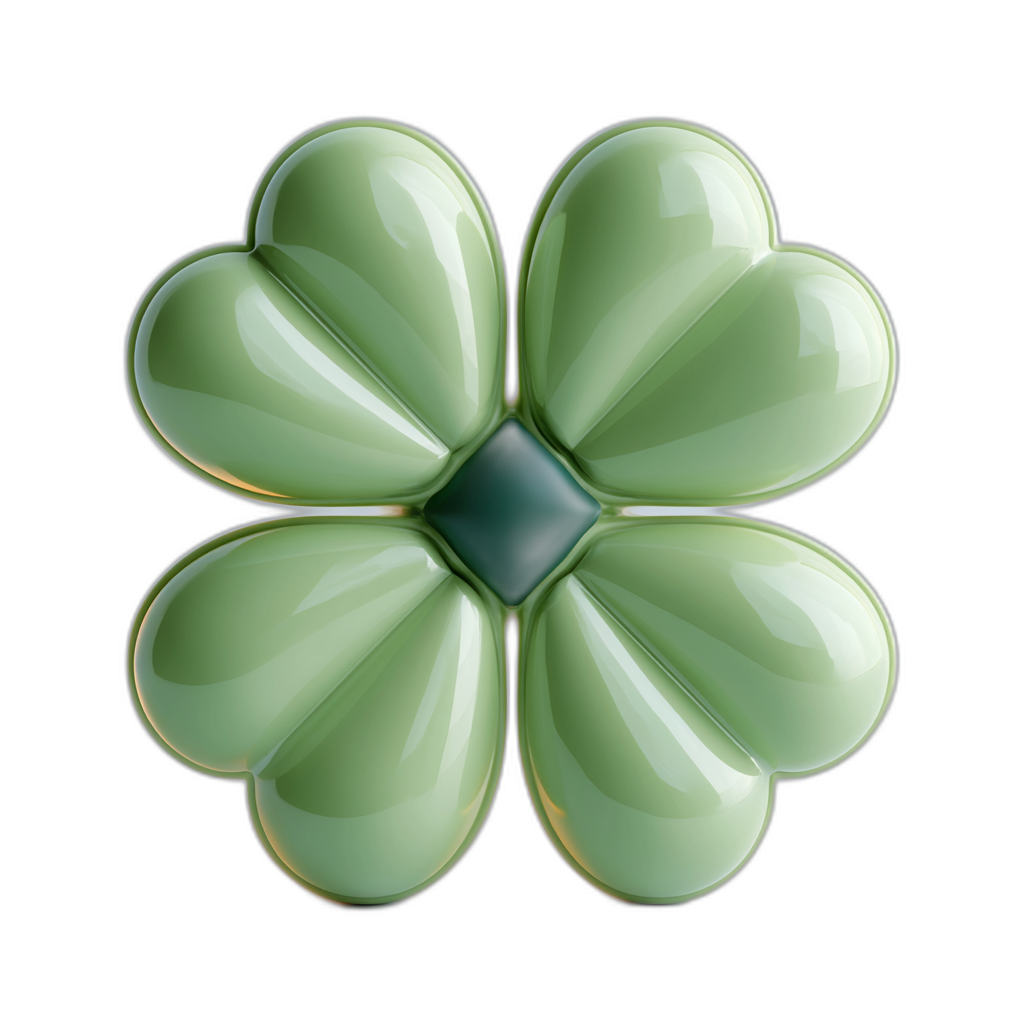
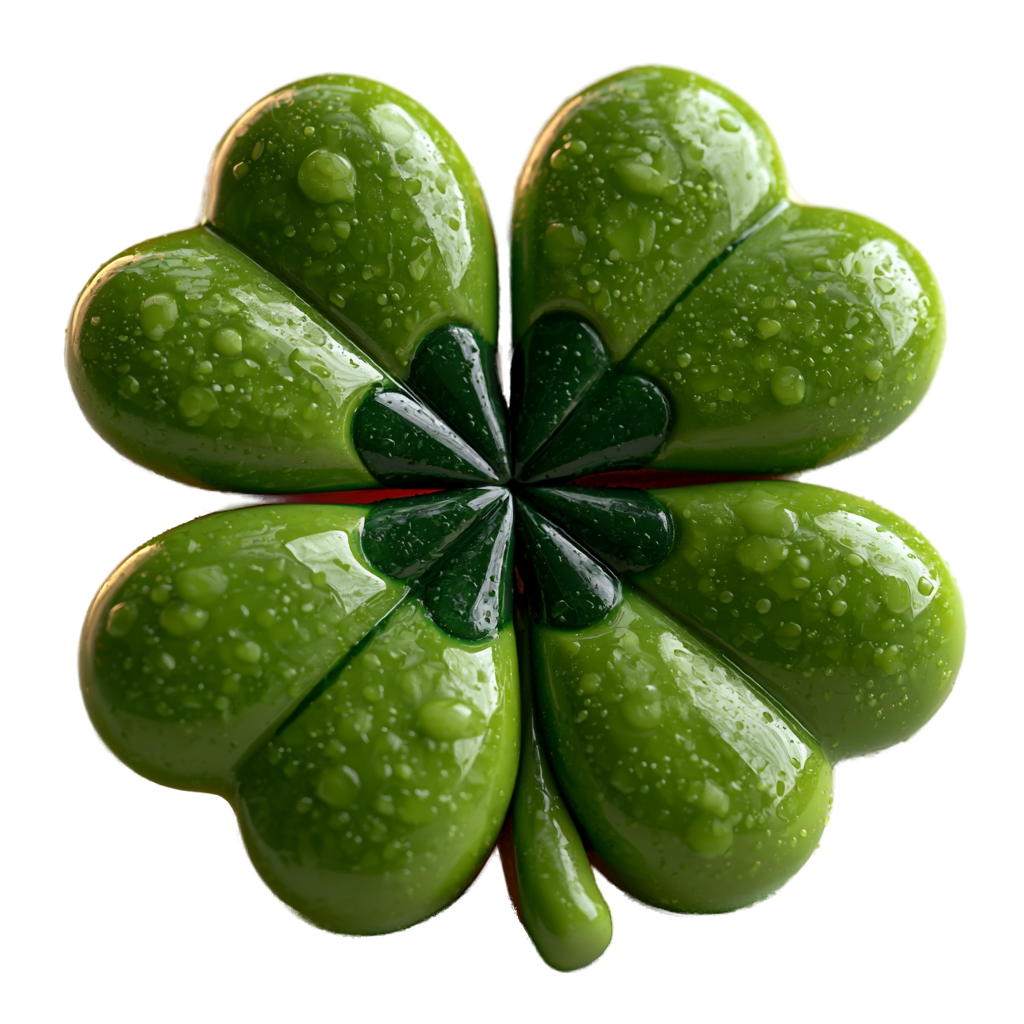
Asset Bible v1.1 — board-context re-bake of T02 + T03 + T05
Patch on v1 bible: 3 of the 6 v1 HD tiles failed the 5m squint test
when integrated into the actual Unity board (after the SpriteRenderer
PPU fix landed in the Unity repo). v1 quality registry accepted color
and concept drift judged on MJ's white canvas — that masked in-game
contrast issues against the dark forest green board.

Bible patch (asset-bible-v1.1-tile-rebake.md) adds:
- New common rules block enforced on every re-bake prompt: "single
  dominant brand color readable at 80px thumbnail against dark forest
  green background, sticker-style game tile NOT still-life, NO ground
  surface beneath, NO ambient floor color bleeding"
- Revised prompts for T02 / T03 / T05 with tightened color/concept
  enforcement + per-tile drift-mode negation libraries
- New mandatory quality gate §4: every variation must pass the dark
  green board contrast test (downscale 80px → place on #1a3a24 →
  squint at 5m → confirm distinguishable from other 5 tiles)
- Generation order + iteration budget per tile (max 3 prompt revisions
  before escalating to sref-drop fallback)
- Updated Quality Registry row template — v1 rows stay (registry is
  append-only per v1 §6)

Re-baked PNGs (1024 sq, alpha via rembg isnet-general-use):
- T02 Yonca: pale mint → forest green (saturation restored)
- T03 Meşe: nut-on-peach compound → ONE acorn (concept fix)
- T05 Böğürtlen: magenta uniform → violet+cool-calyx cluster

These ride the existing live-ops bundle pipeline + serve as binary
[…]

diff --git a/asset-bible-v1.1-tile-rebake.md b/asset-bible-v1.1-tile-rebake.md
@@ -1,0 +1,151 @@
+# Foxglen Asset Bible — v1.1 Tile Re-bake
+
+**Patch date:** 2026-05-02
+**Scope:** T02, T03, T04, T05 re-bake. T01 + T06 + S01-S04 + P01-P03 + I01-I03 unchanged.
+**Trigger:** First-time integration in Unity board (PPU sizing fixed) revealed 4 tiles fail squint test on a real dark forest-green board background. v1 Quality Registry accepted color/concept drift that didn't survive in-game contrast.
+
+> Anchor sref kept the same: `https://cdn.midjourney.com/794e758d-e852-40df-b732-3f72beafbc62/0_2.png` (T01 mushroom). All re-bakes still inherit T01's lighting/material via `--sref` + `--sw 50` so the family stays internally consistent.
+
+---
+
+## 1. What broke (squint test on dark green board)
+
+| ID | Spec | What v1 shipped | Failure mode |
+|---|---|---|---|
+| **T02 Yonca** | `#6ab04c` saturated forest green | pale mint green, washed out | desaturation drift — sref red bleed neutralized green chroma |
+| **T03 Meşe** | yellow oval body `#f4b000` + brown beret cap | brown acorn nut sitting on an orange peach/persimmon body | concept break — V8.1 invented a 2-piece "nut-on-fruit" composite |
+| **T04 Çiy** | cyan/turquoise `#3ec1d3` | deep navy / cobalt blue | hue shift — color went from #3ec1d3 turquoise to ~#1a3a78 cobalt; lost the "fresh water" brand cue |
+| **T05 Böğürtlen** | violet `#8b5cf6` (mid-purple, blue undertone) | magenta / pink-purple | hue shift — drifted toward warm purple; visually collides with T01 mushroom (red) and T06 bloom (pink) |
+
+**Cross-tile readability cost:** in the shipped board, mushroom + berry + bloom all read as "warm reddish round thing" at 5m squint. v1.1 must restore color separation so a player can distinguish all 6 tile kinds in <0.3s.
+
+---
+
+## 2. New common rules (apply to all 4 re-bakes)
+
+These are layered ON TOP of the v1 master spine (§2.1 in v1 bible). Add verbatim to every re-bake prompt:
+
+```
+single dominant brand color readable at 80 pixel thumbnail size against dark forest green background, sticker-style game tile NOT still-life NOT diorama NOT product photograph, isolated subject with NO ground surface beneath, NO cast shadow on a surface, NO environmental reflection, NO ambient floor color bleeding onto the object
+```
+
+**Why each clause:**
+- "single dominant brand color readable at 80px thumbnail" — Royal Match / Toon Blast convention. v1 gave V8.1 too much room to introduce secondary colors that erode silhouette.
+- "sticker-style NOT still-life NOT diorama" — v1 prompts said "Royal Match style 3D rendered plastic plush" but V8.1 still produced micro-photos with environmental lighting. "Sticker" is the magic word that kills baked environment.
+- "NO ground surface / NO cast shadow on a surface / NO ambient floor color bleeding" — kills the "tile sitting on grass/sand" effect that made the v1 board look like 6 different photoshoots stitched together.
+
+**Where to put it:** insert after `glossy fruit surface,` (or whatever subject-trailing phrase) and BEFORE `mobile match-3 puzzle game asset,` in every prompt below. Do NOT delete the v1 master spine — these rules supplement it.
+
+---
+
+## 3. Re-bake prompts (4 tiles)
+
+> **Generation order:** T02 → T03 → T04 → T05 (alphabetical, no internal sref dependencies — each anchors back to T01 only).
+> **Iteration budget:** 6 variations per tile, max 3 prompt revisions per tile. If round 3 fails, escalate to dropping `--sref` entirely and re-anchoring just on hex color enforcement.
+> **Settings panel:** confirm V8.1 Standard + Raw + Stylize 250 + Personalization OFF before each batch.
+
+### 3.1 T02 — Yonca (Clover) RE-BAKE
+
+```
+cute four-leaf clover plant seen from above, four heart-shaped leaves arranged in symmetric cross pattern, deeply saturated emerald forest green leaves matching hex #6ab04c exactly, dark forest green center #3d6b2a where leaves meet, soft chunky plump proportion with rolled rounded leaf edges, dewy semi-gloss on leaf surfaces, single dominant brand color readable at 80 pixel thumbnail size against dark forest green background, sticker-style game tile NOT still-life NOT diorama NOT product photograph, isolated subject with NO ground surface beneath, NO cast shadow on a surface, NO environmental reflection, NO ambient floor color bleeding onto the object, mobile match-3 puzzle game asset, Royal Match style 3D rendered plastic plush material, semi-glossy specular highlight top-left 45-degree key light, warm bottom bounce, cool cyan rim light, baked ambient occlusion shadow underneath, isolated on pure white background, centered square composition, hyperdetailed, octane render, soft ceramic shading, no flat colors, no outlines, no cell shading, no 2D illustration, no abstract shapes, no geometric polygon, no photorealistic, no pale mint, no pastel green, no light green, no sage, no lime --sref https://cdn.midjourney.com/794e758d-e852-40df-b732-3f72beafbc62/0_2.png --sw 50
+```
+
+**Diff vs v1:**
+- "vibrant green" → "deeply saturated emerald forest green ... matching hex #6ab04c exactly"
+- Added "no pale mint, no pastel green, no light green, no sage, no lime" inline negation (V8.1's most common drift modes for green)
+- Added v2 common rules block
+
+**Quality gate:** at 80px thumbnail on a `#1a3a24` background, the leaves must read as "forest green" not "lawn green" or "mint." If first batch is still pale, re-roll with `--stylize 100` (lower stylize reduces V8.1 chroma washing).
+
+---
+
+### 3.2 T03 — Meşe (Acorn) RE-BAKE
+
+```
+single classic acorn nut as ONE solid unified object, vertical egg-shaped body in smooth polished golden-yellow matching hex #f4b000 exactly, dark warm brown beret-shaped cap covering only the top one-third of the nut with visible cross-hatch scaly texture matching hex #a76e00, tiny brown stem nub on the very top center of the cap, friendly cute plump proportion, glossy semi-matte nut surface, the entire object is ONE piece NOT two separate objects, single dominant brand color readable at 80 pixel thumbnail size against dark forest green background, sticker-style game tile NOT still-life NOT diorama NOT product photograph, isolated subject with NO ground surface beneath, NO cast shadow on a surface, NO environmental reflection, NO ambient floor color bleeding onto the object, mobile match-3 puzzle game asset, Royal Match style 3D rendered plastic plush material, semi-glossy specular highlight top-left 45-degree key light, warm bottom bounce, cool cyan rim light, baked ambient occlusion shadow underneath, isolated on pure white background, centered square composition, hyperdetailed, octane render, soft ceramic shading, no flat colors, no outlines, no cell shading, no 2D illustration, no abstract shapes, no geometric polygon, no photorealistic, no orange fruit base, no peach, no persimmon, no apricot, no compound object, no two-piece object, no nut sitting on a fruit, no chestnut on a peach, no berry beneath, no spherical fruit body --sref https://cdn.midjourney.com/794e758d-e852-40df-b732-3f72beafbc62/0_2.png --sw 50
+```
+
+**Diff vs v1:**
+- Reframed lead from "realistic plump acorn nut" → "single classic acorn nut as ONE solid unified object"
+- Geometry spec hardened: "vertical egg-shaped body" + "cap covering only the top one-third"
+- Repeat-emphasis: "the entire object is ONE piece NOT two separate objects"
+- Negation library expanded with the specific drift modes seen in v1 ("no orange fruit base, no peach, no persimmon, no nut sitting on a fruit, no chestnut on a peach")
+- Added v2 common rules block
+
+**Quality gate:** silhouette at 64px must read as a single ovoid with a contrast band at the top. If V8.1 still produces 2-piece composite, round 2: drop `--sref` entirely (sref's "warm friendly object" influence may be triggering the fruit base) and rely only on hex enforcement.
+
+---
+
+### 3.3 T04 — Çiy (Dewdrop) RE-BAKE
+
+```
+single plump teardrop water droplet, opaque solid candy-like body in vivid bright turquoise cyan matching hex #3ec1d3 exactly, color is unmistakably tropical-lagoon turquoise NOT navy NOT cobalt NOT royal-blue NOT dark-blue, smooth glossy plastic surface like a polished cyan candy gem, plump teardrop shape pointed at top rounded at bottom, bright white sparkle highlight on upper-left of the body, faint cyan glow rim, single dominant brand color readable at 80 pixel thumbnail size against dark forest green background, sticker-style game tile NOT still-life NOT diorama NOT product photograph, isolated subject with NO ground surface beneath, NO cast shadow on a surface, NO environmental reflection, NO ambient floor color bleeding onto the object, NO water puddle beneath, mobile match-3 puzzle game asset, Royal Match style 3D rendered plastic plush material, semi-glossy specular highlight top-left 45-degree key light, warm bottom bounce, cool cyan rim light, baked ambient occlusion shadow underneath, isolated on pure white background, centered square composition, hyperdetailed, octane render, soft ceramic shading, no flat colors, no outlines, no cell shading, no 2D illustration, no abstract shapes, no geometric polygon, no photorealistic, no glass, no transparent interior, no refractive surface, no internal reflections, no internal artifacts, no navy blue, no cobalt blue, no royal blue, no dark blue, no deep blue, no indigo --sref https://cdn.midjourney.com/794e758d-e852-40df-b732-3f72beafbc62/0_2.png --sw 50
+```
+
+**Diff vs v1 (round 2 shipped version):**
+- Color description rewritten: "vivid bright turquoise cyan ... unmistakably tropical-lagoon turquoise"
+- Hex repeat-emphasis: "matching hex #3ec1d3 exactly"
+- Added explicit blue-family negations: "no navy, no cobalt, no royal blue, no dark blue, no deep blue, no indigo" (these are the drift modes that produced the cobalt v1 result)
+- Kept v1's opaque/candy framing (that successfully killed the round-1 photoreal glass interpretation)
+- Added "NO water puddle beneath" to v2 common rules block (water drop would naturally invite a puddle)
+
+**Quality gate:** at 80px on dark green, color must read as "cyan/turquoise" not "blue." If V8.1 still goes deep blue, round 2: lower `--sw` to 25 (less sref color bleed) or drop sref entirely.
+
+---
+
+### 3.4 T05 — Böğürtlen (Berry) RE-BAKE
+
+```
+cluster of three plump round berries, deep saturated violet purple color matching hex #8b5cf6 exactly, mid-tone purple with cool blue undertone NOT magenta NOT pink-purple NOT warm purple, grape-like proportion with one berry on top and two below in a triangle, small fresh green leaf stem on very top, soft sub-surface scattering on berry skin, glossy fruit surface, single dominant brand color readable at 80 pixel thumbnail size against dark forest green background, sticker-style game tile NOT still-life NOT diorama NOT product photograph, isolated subject with NO ground surface beneath, NO cast shadow on a surface, NO environmental reflection, NO ambient floor color bleeding onto the object, mobile match-3 puzzle game asset, Royal Match style 3D rendered plastic plush material, semi-glossy specular highlight top-left 45-degree key light, warm bottom bounce, cool cyan rim light, baked ambient occlusion shadow underneath, isolated on pure white background, centered square composition, hyperdetailed, octane render, soft ceramic shading, no flat colors, no outlines, no cell shading, no 2D illustration, no abstract shapes, no geometric polygon, no photorealistic, no magenta, no pink, no pink-purple, no warm purple, no red-purple, no fuchsia, no hot pink, no rose --sref https://cdn.midjourney.com/794e758d-e852-40df-b732-3f72beafbc62/0_2.png --sw 50
+```
+
+**Diff vs v1:**
+- Color description hardened: "deep saturated violet purple ... mid-tone purple with cool blue undertone"
+- Hex repeat-emphasis + explicit anti-magenta clause
+- Negation library expanded for warm-purple drift modes: "no magenta, no pink, no pink-purple, no warm purple, no red-purple, no fuchsia, no hot pink, no rose"
+- Restored "three berries" (v1 accepted 4-berry drift; for v1.1 we need silhouette discipline so 3-berry triangle is non-negotiable)
+- Added v2 common rules block
+
+**Quality gate:** at 5m squint, the berry cluster must NOT be confusable with mushroom (red) or bloom (pink). If V8.1 still produces magenta, round 2: drop sref entirely and re-anchor on a fresh violet reference (e.g., the existing T04 dewdrop URL once it lands — both are cool-tone tiles).
+
+---
+
+## 4. Quality gate — board contrast test (NEW)
+
+Before approving any re-bake variation, verify on the actual Unity board background, not just on MJ's white canvas:
+
+1. Download MJ output PNG
+2. Open in any image tool, place on a **`#1a3a24` (forestDark)** flat fill
+3. Downscale to **80×80 px** (matches typical board cell size on iPhone)
+4. Step back 5 meters from screen
+5. Ask: would I confuse this tile with any of the OTHER 5 tile kinds at this distance?
+   - If yes → reject variation, re-roll
+   - If no → continue to integration
+
+This step did not exist in v1 — assets were judged on MJ's white canvas which masked color/contrast issues. v1.1 makes it mandatory.
+
+---
+
+## 5. Integration after re-bake
+
+Once 4 new PNGs are accepted:
+
+1. Drop them into `app/foxglen-content/assets/icons-v2/tiles/` (overwriting the v1 versions)
+2. Copy to Unity: `cp T0{2,3,4,5}*.png /Users/cancermikli/disk/projects/unity/foxglen/Assets/Resources/Icons/v2/`
+3. Filenames must remain `T02.png` ... `T05.png` (Unity `IconLibrary.HdId` enum maps are filename-locked)
+4. Unity Editor will auto-reimport. PPU normalization (`IconLibrary.WrapAsUnitBounds`, added 2026-05-02) handles whatever native pixel size MJ exports — no further sizing config needed
+5. Cold-restart the app, open Board, run quality gate §4 in-context
+
+If the manifest pipeline (`AssetManifestRemote`) is also live-ops-pushing these, bump `manifest.json.version` and re-publish to GitHub Pages. Cache key `foxglen:assets:v1` will invalidate on next cold start.
+
+---
+
+## 6. Updated Quality Registry rows
+
+When re-bake variations are accepted, append to v1's §5 Quality Registry. Use this row template so the v1 registry stays the historical record:
+
+```
+| T02 Yonca v1.1 | ✅ DONE 2026-05-02 | <new URL> | v1.1 re-bake. Reason: v1 leaves drifted to pale mint, failed dark-green-board squint test. Round N winner. Color now reads as forest green at 80px thumbnail. |
+```
+
+Repeat for T03/T04/T05 with their own reason notes. v1 rows stay (registry is append-only per §6 of v1 bible).
